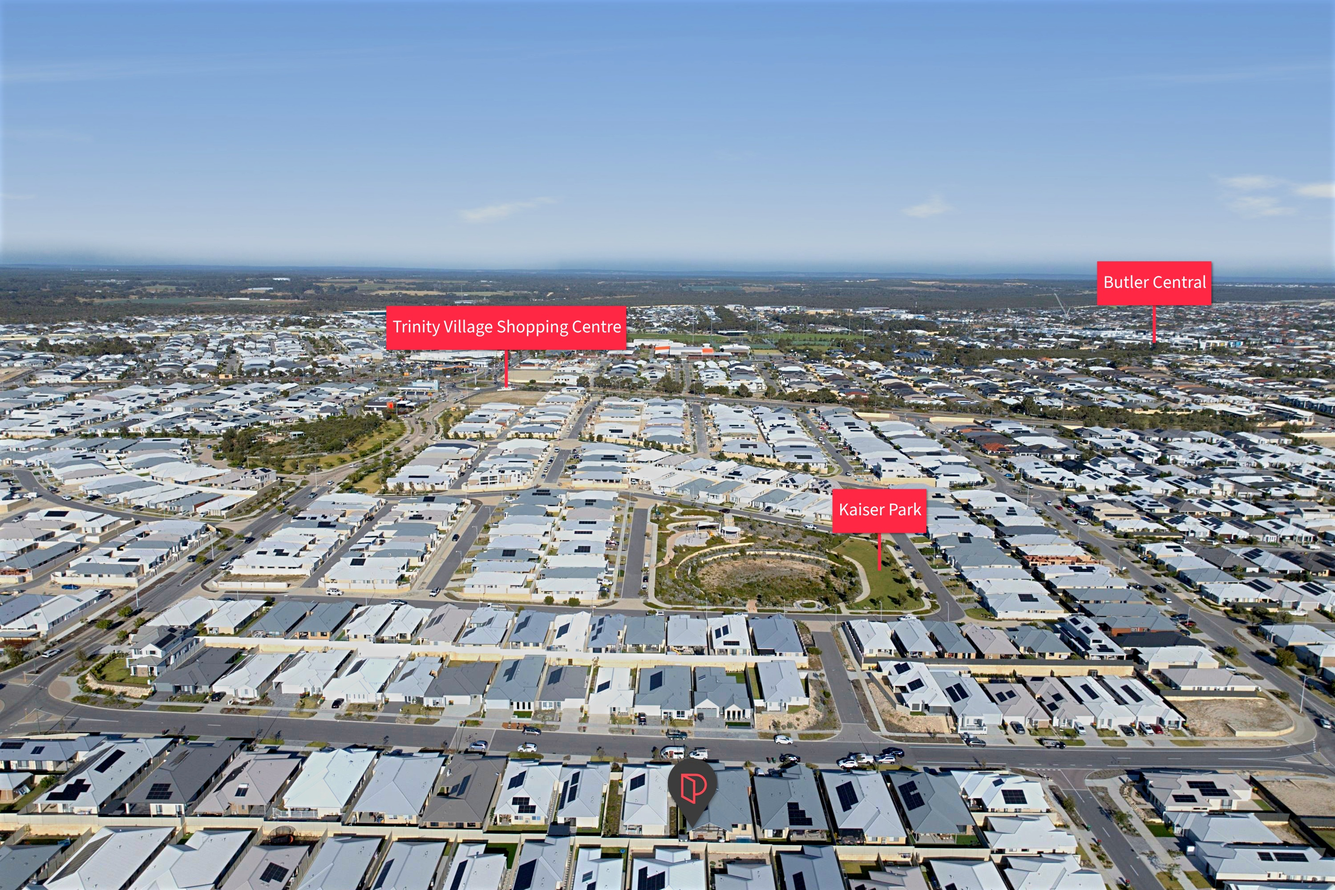
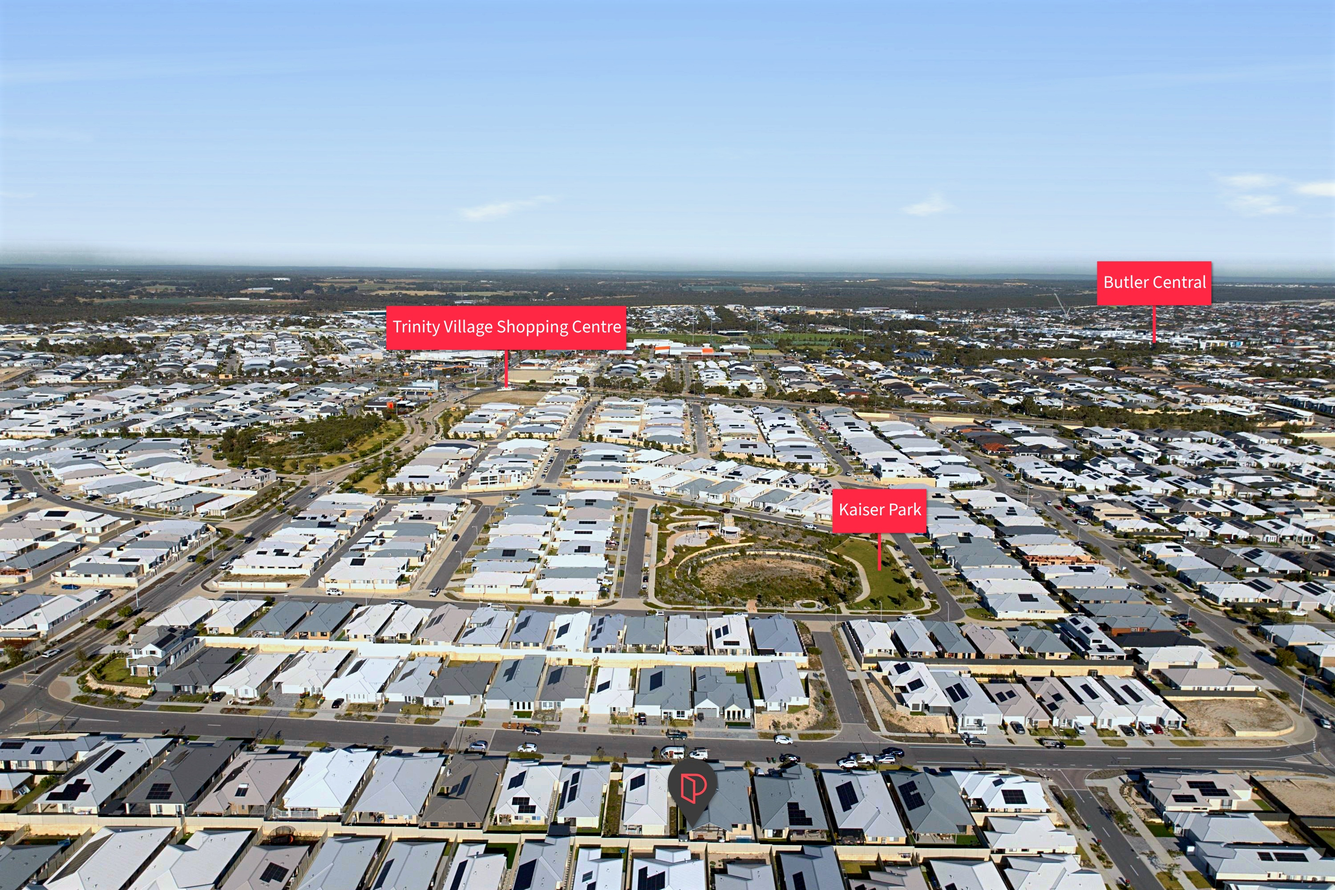
Aerial look matched to Jason's reference drone (15 Douglas Ave Yokine): neutral whites, reference tones + colour, pale clean sky; 76 Dolphin re-exported
Claude-Session: https://claude.ai/code/session_01A5qGg2LnJXxgSHoMQFvEEG

diff --git a/pins/index.html b/pins/index.html
@@ -629,9 +629,51 @@ function dehazeBand(px, w, h, line){
     }
   }
 }
+/* 11 Nov: "needs to look like this drone every time" (Jason, ref = 15 Douglas Ave Yokine listing drones).
+   Last step of every day finish: white balance so white roofs read neutral, land tones + colour pulled to the reference,
+   sky pulled to the reference's pale clean blue gradient (clouds/detail kept). Twilight jobs skipped. */
+const REF = { qp:[.02,.1,.25,.5,.75,.9,.98], q:[20,52,85,135,181,213,239], qTop:[14,69,115,163,202,219,238], white:[215,218,222], chroma:25,
+  sky:[[187,219,254],[209,231,252],[216,231,245]] };
+function refMatch(cv, sky, p){
+  const T = Object.assign({}, TUNE, window.__TUNE||{});
+  if (T.noRef || (typeof prefs!=='undefined' && prefs.skyPlate==='S') || (p && p.skyWarm)) return;
+  const w = cv.width, h = cv.height, ctx = cv.getContext('2d'), id = ctx.getImageData(0,0,w,h), px = id.data;
+  const top = p && p.cam && typeof p.cam.pitch==='number' && p.cam.pitch < -65;
+  const line = (sky && !top) ? (x => sky.m*x + sky.b) : null, band = 0.015*h, st = Math.max(1, Math.round(w/700));
+  const Ls = []; let wr=0, wg=0, wb=0, wn=0, ch=0, cn=0; const SB = 24, sr = new Float64Array(SB*4);
+  for (let y=0; y<h; y+=st) for (let x=0; x<w; x+=st){ const i=(y*w+x)*4, r=px[i], g=px[i+1], b=px[i+2], L=0.299*r+0.587*g+0.114*b;
+    if (line){ const hz=line(x); if (y < hz - band){ const t=Math.max(0,Math.min(SB-1,(y/Math.max(hz,1)*SB)|0)); sr[t*4]+=r; sr[t*4+1]+=g; sr[t*4+2]+=b; sr[t*4+3]++; continue; } if (y < hz + 3*band) continue; }
+    Ls.push(L); ch += Math.hypot(r-L, g-L, b-L); cn++;
+    const mx=Math.max(r,g,b), mn=Math.min(r,g,b); if (L>165 && L<250 && mx-mn<40){ wr+=r; wg+=g; wb+=b; wn++; } }
+  if (Ls.length < 400) return;
+  Ls.sort((a,b)=>a-b); const Q = REF.qp.map(q => Ls[Math.floor(q*(Ls.length-1))]);
+  // white balance (only if enough near-white surfaces), gentle
+  let G = [1,1,1];
+  if (wn > 0.004*Ls.length){ const m=(wr+wg+wb)/(3*wn), rm=(REF.white[0]+REF.white[1]+REF.white[2])/3, a=T.refWB ?? 1;
+    G = [wr/wn, wg/wn, wb/wn].map((v,k) => { const gk = (REF.white[k]/rm)/(v/m); return Math.max(0.86, Math.min(1.14, 1 + a*(gk-1))); }); }
+  // tone curve on luminance, knots pulled toward the reference
+  const s = T.refAmt ?? 0.7, RQ = top ? REF.qTop : REF.q, kx=[0], ky=[0];
+  Q.forEach((q,k) => { const end = k===0 || k===Q.length-1, y = q + (end || k<=2 || RQ[k] > q ? s : 0.15)*(RQ[k]-q);   /* black + white points to the reference; mids only lifted (grey-roof estates are brighter than the ref street) */ if (q > kx[kx.length-1]+2) { kx.push(q); ky.push(Math.max(ky[ky.length-1]+1, y)); } }); kx.push(255); ky.push(255);
+  const curve = new Float32Array(256); for (let v=0, k=0; v<256; v++){ while (k < kx.length-2 && v > kx[k+1]) k++; const f=(v-kx[k])/Math.max(1,kx[k+1]-kx[k]); curve[v] = ky[k] + f*(ky[k+1]-ky[k]); }
+  const ourC = ch/cn, kc = Math.max(0.85, Math.min(1.4, 1 + (T.refSat ?? 1)*(REF.chroma/Math.max(1,ourC) - 1)));
+  // sky: per-row-band shift toward the reference gradient
+  const sa = T.refSky ?? 0.6, shift = new Float32Array(SB*4);
+  for (let t=0; t<SB; t++){ const n=sr[t*4+3]; if (!n) continue; const u=t/(SB-1)*2, k0=Math.min(1,u|0), f=u-k0, R=REF.sky[k0], R2=REF.sky[k0+1];
+    for (let c=0;c<3;c++) shift[t*4+c] = sa*((R[c]*(1-f)+R2[c]*f) - sr[t*4+c]/n); shift[t*4+3] = (0.299*sr[t*4]+0.587*sr[t*4+1]+0.114*sr[t*4+2])/n; }
+  for (let y=0; y<h; y++) for (let x=0; x<w; x++){ const i=(y*w+x)*4; let r=px[i], g=px[i+1], b=px[i+2];
+    let lw = 1, hz = 0; if (line){ hz=line(x); const d=(y-hz)/band; lw = d<=-1 ? 0 : d>=1 ? 1 : 0.5+0.5*d; }
+    let R=r, Gg=g, B=b;
+    if (lw > 0){ const r1=r*G[0], g1=g*G[1], b1=b*G[2], L=0.299*r1+0.587*g1+0.114*b1, L2=curve[Math.min(255,Math.max(0,L|0))], sc = L>1 ? L2/L : 1;
+      R = L2 + kc*(r1*sc-L2); Gg = L2 + kc*(g1*sc-L2); B = L2 + kc*(b1*sc-L2); }
+    if (lw < 1){ const t=Math.max(0,Math.min(SB-1,(y/Math.max(hz,1)*SB)|0)); const Lp=0.299*r+0.587*g+0.114*b, sim=Math.max(0, 1-Math.abs(Lp-shift[t*4+3])/45) * (t>=SB-2 ? 0.5 : 1), sr_=r+sim*shift[t*4], sg_=g+sim*shift[t*4+1], sb_=b+sim*shift[t*4+2];   /* trees/roofs poking above the line are left alone */
+      R = R*lw + sr_*(1-lw); Gg = Gg*lw + sg_*(1-lw); B = B*lw + sb_*(1-lw); }
+    px[i]=R; px[i+1]=Gg; px[i+2]=B; }
+  ctx.putImageData(id, 0, 0);
+  if (p) p._ref = { G:G.map(v=>+v.toFixed(3)), kc:+kc.toFixed(2), Q:Q.map(Math.round) }; (window.__refs = window.__refs || []).push([p && p.name, wn, Ls.length, ourC.toFixed(1), (p&&p._ref)]);
+}
 function finishImage(base, p){   /* 11 Nov: per-photo look override saved in the project (p.tune), e.g. cool grey-roof estates */
   const prevT = window.__TUNE; if (p && p.tune) window.__TUNE = Object.assign({}, prevT||{}, p.tune);
-  try { return finishImage0(base, p); } finally { window.__TUNE = prevT; } }
+  try { const r = finishImage0(base, p); try{ refMatch(r.canvas, r.sky, p); }catch(e){ console.warn("refMatch", e); } return r; } finally { window.__TUNE = prevT; } }
 function finishImage0(base, p){
   { const pk = (typeof prefs!=="undefined" && prefs.skyPlate) || "C"; if (typeof SKYP_CACHE!=="undefined" && SKYP_CACHE[pk]) SKYP = SKYP_CACHE[pk]; }
   const w = base.width, h = base.height;
